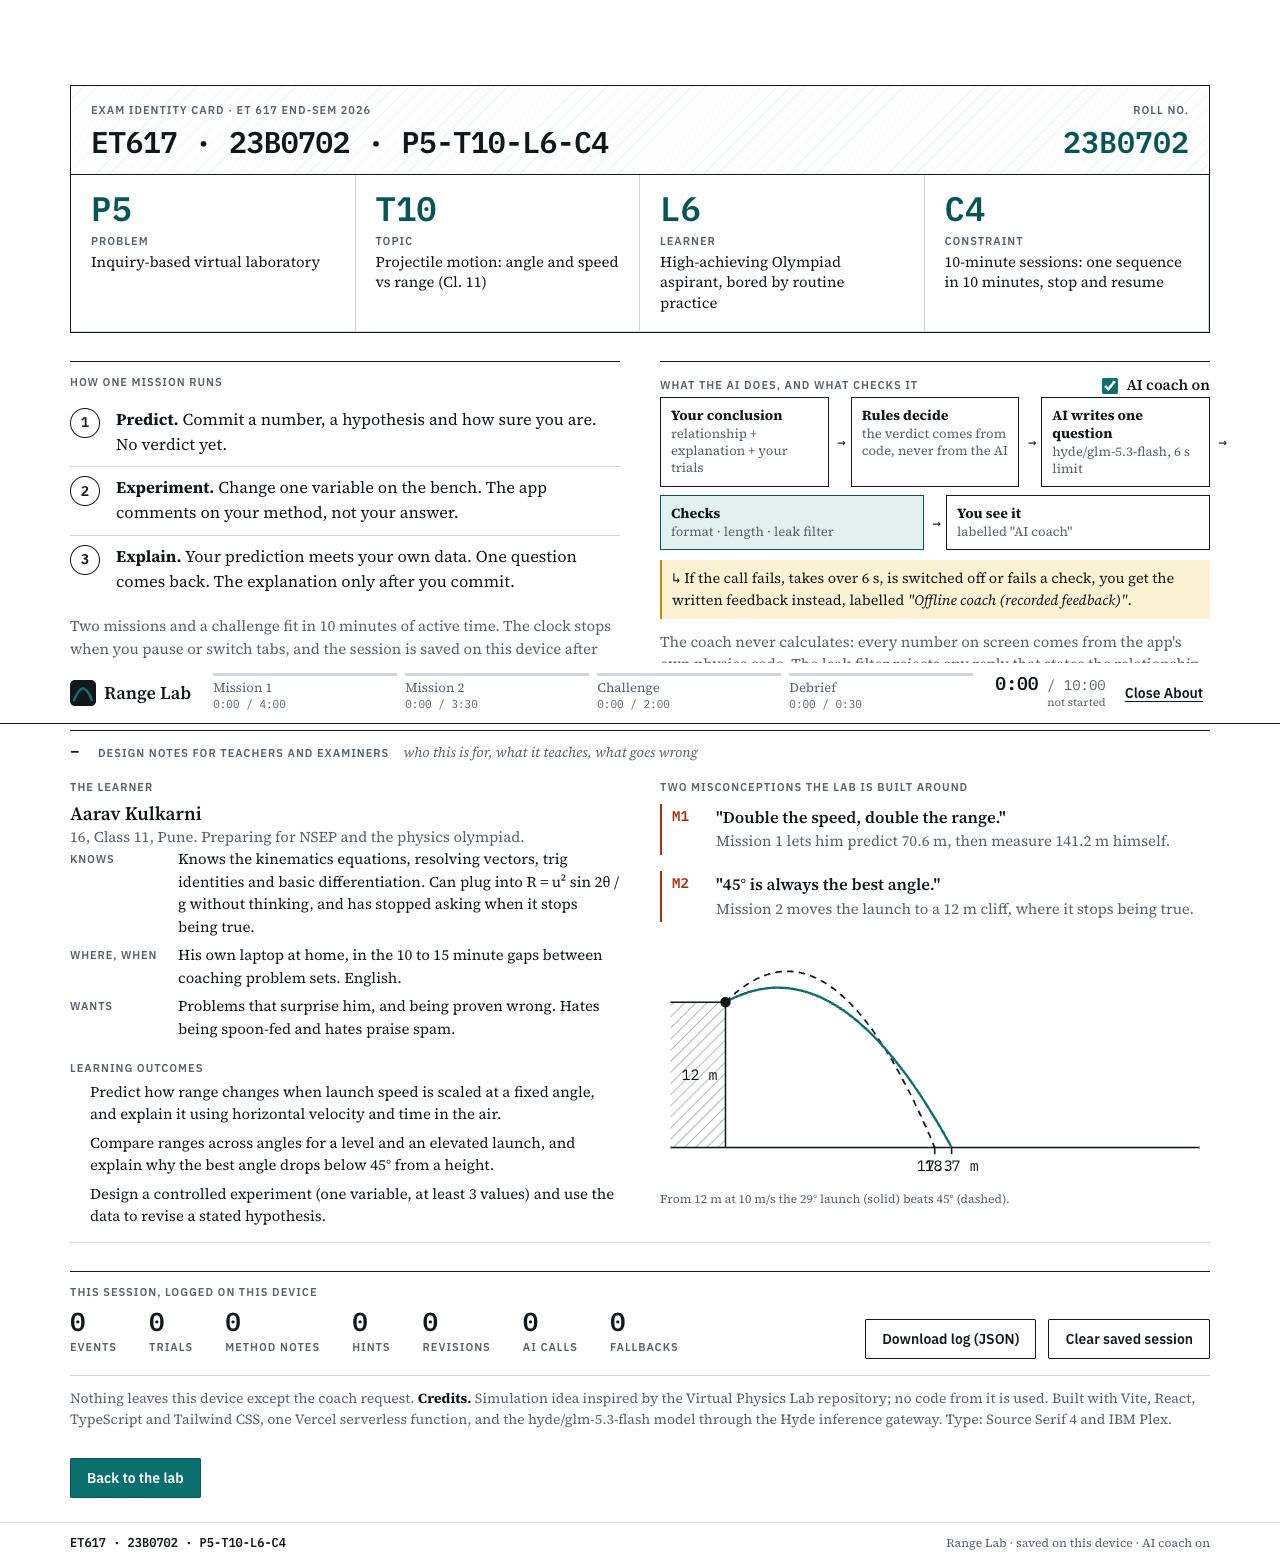
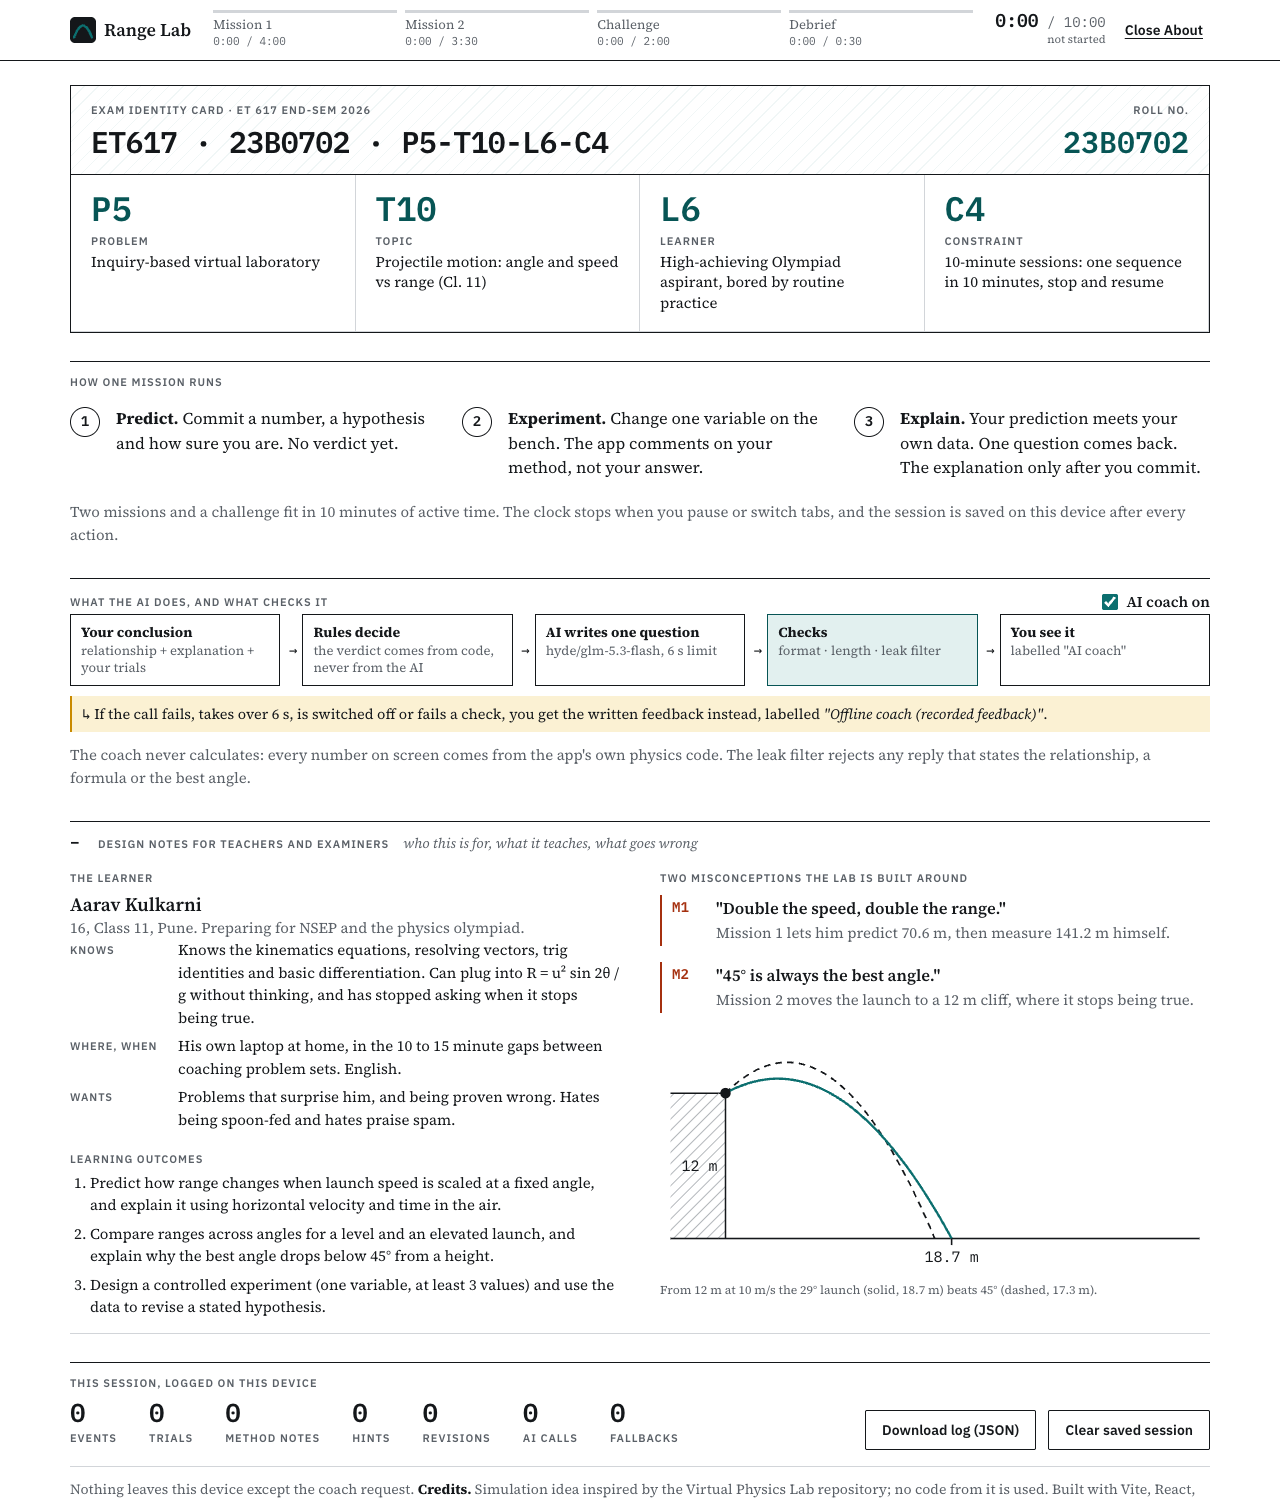
Chat log converter: handle cut-off app notices; refresh About screenshot

diff --git a/scripts/chatlog.py b/scripts/chatlog.py
@@ -16,8 +16,12 @@ TOOL_INPUT_LIMIT = 1200
 TOOL_RESULT_LIMIT = 1500
 
 
+CUT_REMINDER = re.compile(r"<system-reminder[^>]*>.*", re.S)  # a reminder cut off when a tool result was shortened
+
+
 def clean(text):
-    return KEY.sub("sk-[REDACTED]", REMINDER.sub("", text)).strip()
+    text = CUT_REMINDER.sub("[app notice removed]", REMINDER.sub("", text))
+    return KEY.sub("sk-[REDACTED]", text).strip()
 
 
 def shorten(text, limit):
@@ -67,7 +71,7 @@ with open(src, encoding="utf-8") as f:
         only_tools = all(p.startswith("[tool result]") for p in parts)
         who = "TOOL OUTPUT" if only_tools else ("USER" if row["type"] == "user" else "ASSISTANT (Claude)")
         stamp = (row.get("timestamp") or "")[:19].replace("T", " ")
-        body = clean("\n\n".join(parts))
+        body = "\n\n".join(c for c in (clean(p) for p in parts) if c)
         if not body:
             continue
         lines.append(f"\n----- {who}  {stamp} UTC -----")
